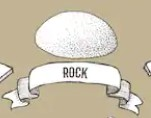
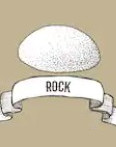
Edited and centered choice buttons

diff --git a/css/style.css b/css/style.css
@@ -37,9 +37,11 @@ td {
 }
 
 #choices button {
-  height: 100px;
-  width: 100px;
+  height: auto;
+  /* width: 116px; */
   margin: 0 7.5%;
+  width: auto;
+  padding: 0%;
 }
 
 #winner {
